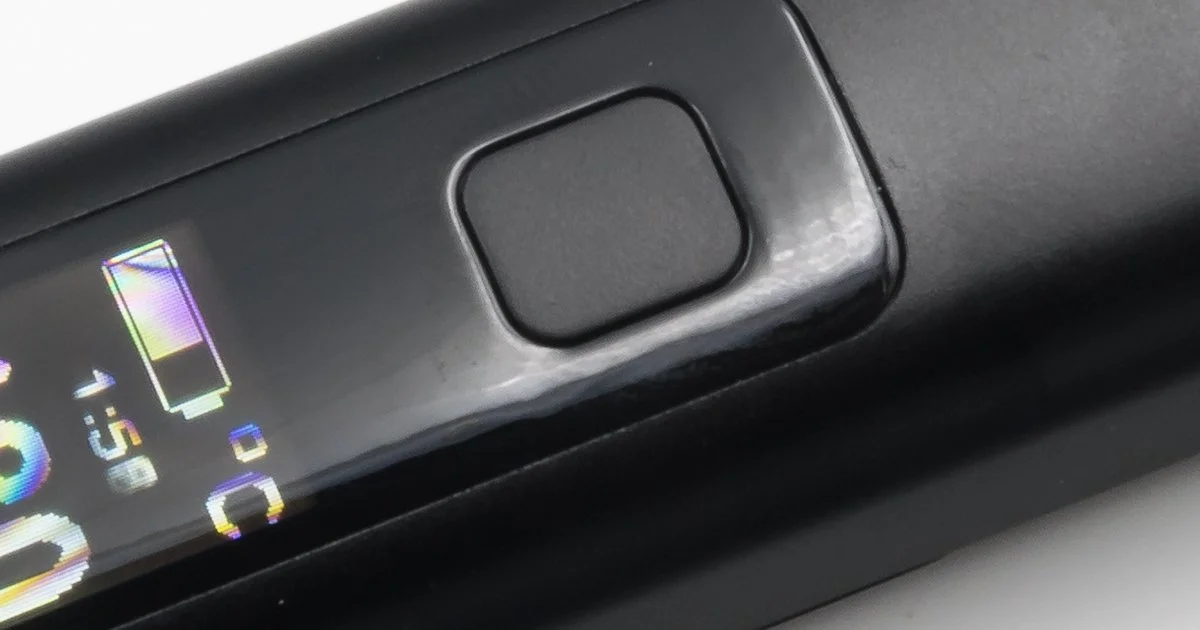
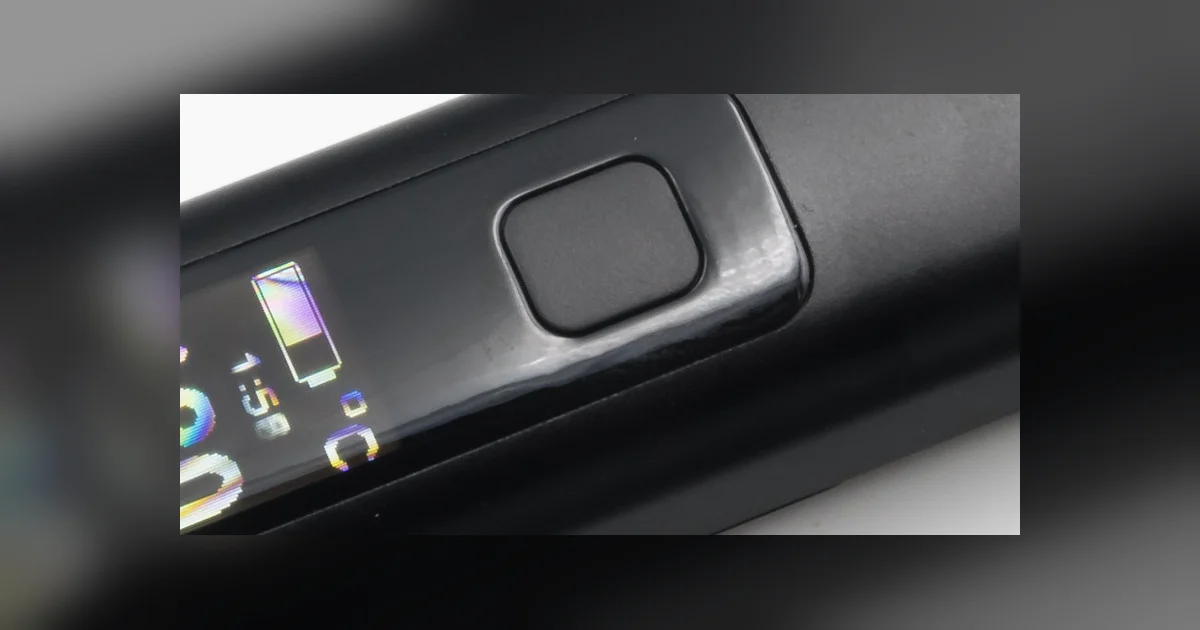
Reduce vaporiser hero zoom — 70% scale with blurred background for wider framing

diff --git a/astro-site/src/content/posts/best-vaporisers-uk-medical-cannabis-2026.md b/astro-site/src/content/posts/best-vaporisers-uk-medical-cannabis-2026.md
@@ -4,7 +4,7 @@ slug: "best-vaporisers-uk-medical-cannabis-2026"
 date: "2026-06-18"
 region: "uk"
 excerpt: 'From the clinic-grade Mighty+ to the budget-friendly XMAX V3 Pro, we tested the five dry-herb vaporisers that UK patients actually rate. Not a single conduction pen made the cut.'
-image: "/images/heroes/hero-best-vaporisers-uk-medical-cannabis-2026.webp?v=2"
+image: "/images/heroes/hero-best-vaporisers-uk-medical-cannabis-2026.webp?v=3"
 author: "The Ganja Club"
 category: "guide"
 tags: